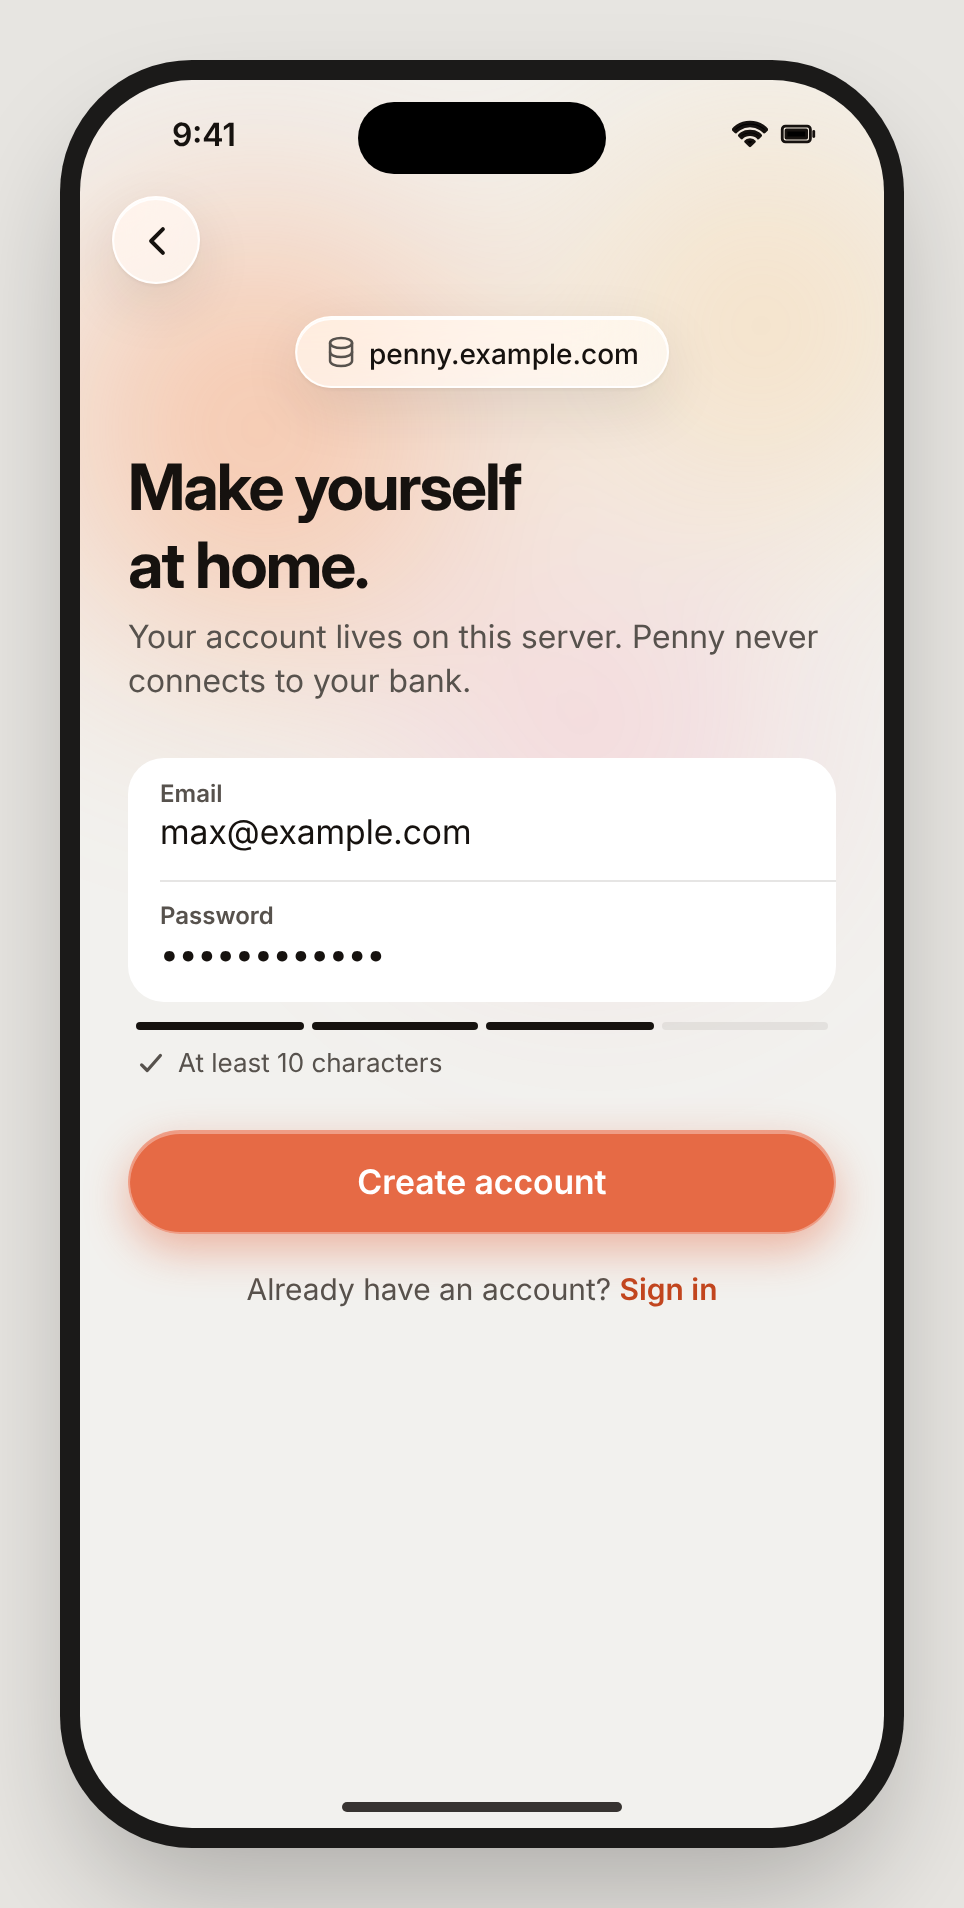
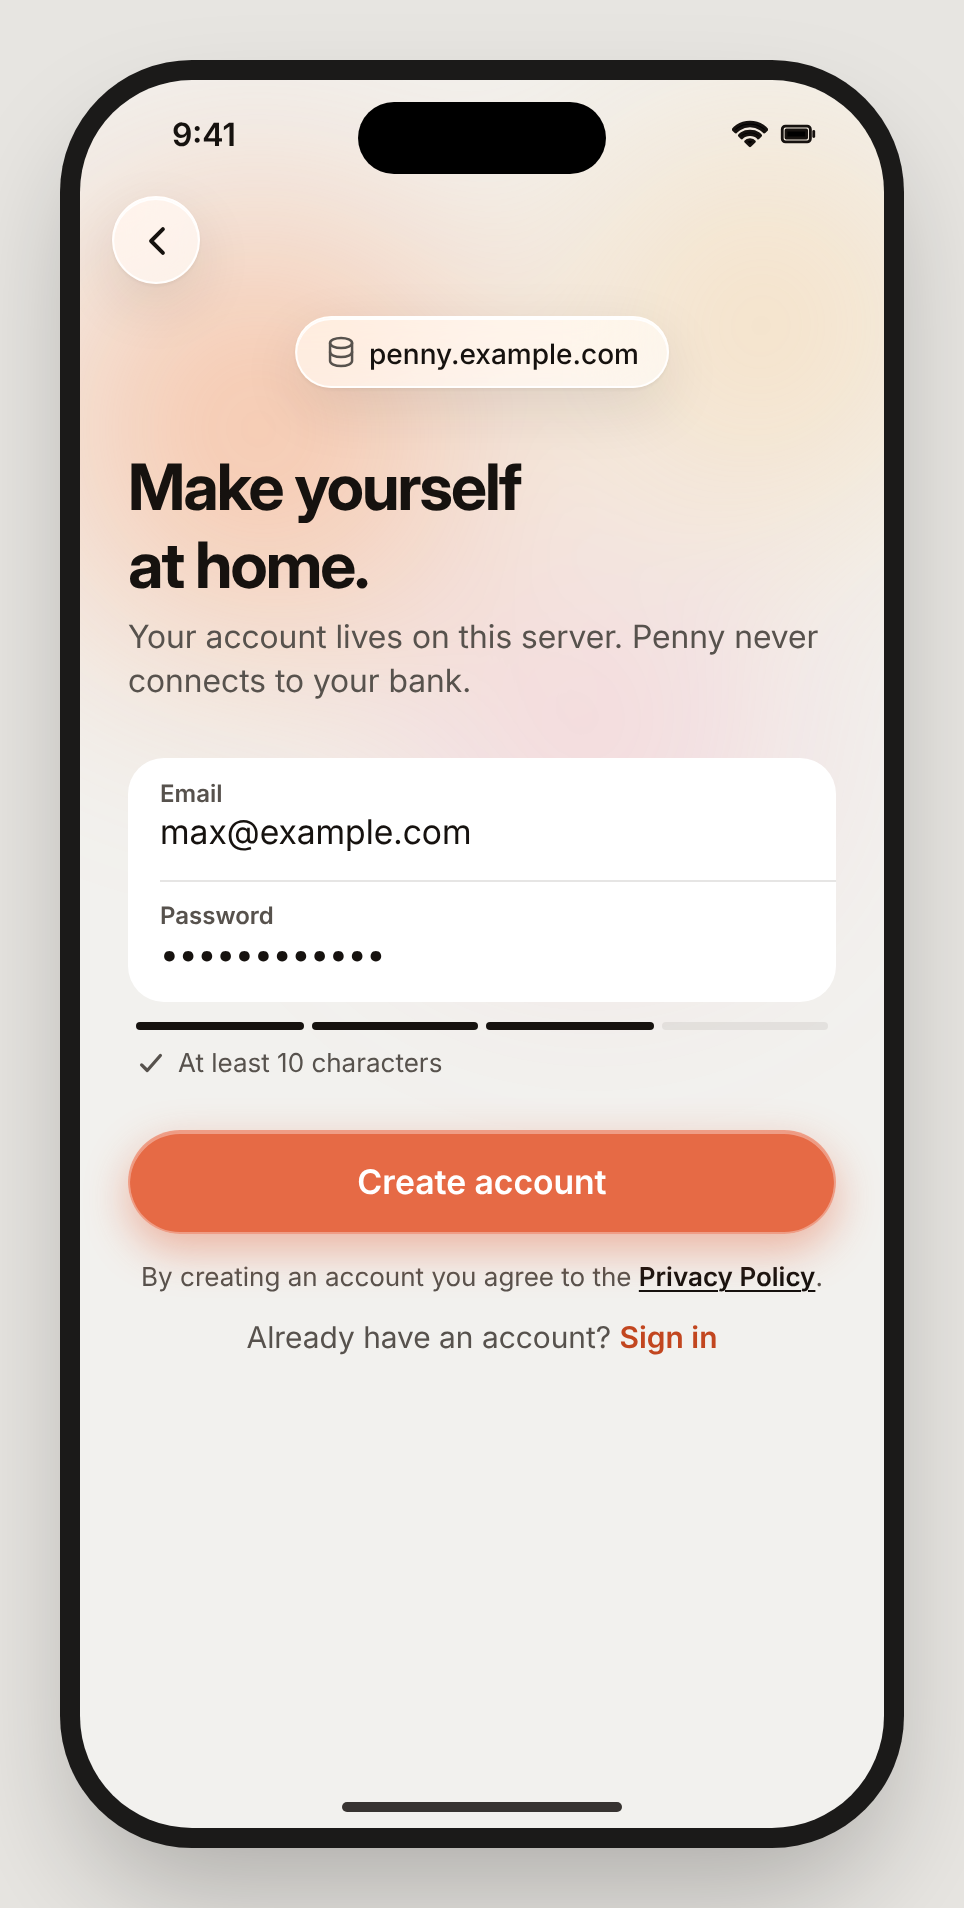
docs(design): show the privacy policy link on the sign-in cards
The owner decided that web-sign-in, iphone-sign-in and iphone-create-account
show the server's Privacy Policy where the providers cards draw it, and that
the picture crop's mouse wording is an approved web adaptation. The privacy
test's Settings > Profile case now serves the profile the new pane loads.

Changed region(s): [[0.1556, 0.6494, 0.8402, 0.7112]]

diff --git a/docs/design/penny-ios/iphone/sign-in.html b/docs/design/penny-ios/iphone/sign-in.html
@@ -25,9 +25,11 @@
   .or::before, .or::after { content: ""; flex: 1; border-top: .5px solid var(--separator); }
   .link { text-align: center; font-size: 15px; color: var(--label-2); margin-top: 18px; }
   .link b { color: var(--tint-text); font-weight: 600; }
-  .demo { position: absolute; bottom: 44px; left: 0; right: 0; text-align: center; font-size: 15px; font-weight: 600; color: var(--label); z-index: 1; display: flex; justify-content: center; }
+  .demo { position: absolute; bottom: 74px; left: 0; right: 0; text-align: center; font-size: 15px; font-weight: 600; color: var(--label); z-index: 1; display: flex; justify-content: center; }
   .demo span { display: inline-flex; align-items: center; gap: 6px; }
   .demo [data-i] { width: 18px; height: 18px; color: var(--tint); }
+  .legal { position: absolute; bottom: 40px; left: 40px; right: 40px; text-align: center; font-size: 13px; color: var(--label-2); line-height: 1.4; z-index: 1; }
+  .legal a { color: var(--label); font-weight: 600; text-decoration: underline; text-underline-offset: 2px; }
 </style></head>
 <body class="canvas">
 <div class="iphone">
@@ -50,6 +52,7 @@
       <p class="link">New here? <b>Create an account</b></p>
     </div>
     <div class="demo"><span><i data-i="play"></i>Take a look around with sample data</span></div>
+    <div class="legal"><a>Privacy Policy</a></div>
   </div>
   <div class="home-ind"></div>
 </div>

diff --git a/docs/design/penny-ios/web/sign-in.html b/docs/design/penny-ios/web/sign-in.html
@@ -27,6 +27,7 @@
   .demo span { display: inline-flex; align-items: center; gap: 6px; font-size: 15px; font-weight: 600; color: var(--label); }
   .demo [data-i] { width: 18px; height: 18px; color: var(--tint); }
   .demo p { font-size: 13px; color: var(--label-2); margin-top: 6px; }
+  .demo p a { color: var(--label); font-weight: 600; text-decoration: underline; text-underline-offset: 2px; }
 </style></head>
 <body class="canvas">
 <div class="browser" data-noside data-url="penny.example.com/sign-in">
@@ -54,7 +55,7 @@
           <div class="btn big" style="margin-top:0"><i data-i="key"></i>Continue with SSO</div>
           <div style="text-align:center;font-size:14px;color:var(--label-2);margin-top:20px">New here? <b style="color:var(--tint-text)">Create an account</b></div>
         </div>
-        <div class="demo"><span><i data-i="play"></i>Take a look around with sample data</span><p>Sample data in this tab only. Nothing is saved or sent to your server.</p></div>
+        <div class="demo"><span><i data-i="play"></i>Take a look around with sample data</span><p>Sample data in this tab only. Nothing is saved or sent to your server. · <a>Privacy Policy</a></p></div>
       </div>
     </div>
   </main>

diff --git a/apps/web/tests/privacy.test.tsx b/apps/web/tests/privacy.test.tsx
@@ -2,7 +2,7 @@ import { screen, within } from "@testing-library/react";
 import userEvent from "@testing-library/user-event";
 import { afterEach, describe, expect, it, vi } from "vitest";
 import { serverInfoSchema } from "../src/api/info";
-import { json, renderApp, stubServer } from "./render";
+import { ALEX, json, renderApp, stubServer } from "./render";
 
 const POLICY = "https://penny.example.com/privacy";
 
@@ -11,6 +11,10 @@ function server(privacyPolicyUrl: string | null | undefined, signedIn = false) {
   return stubServer((url) => {
     if (url === "/api/info") return json({ name: "penny", version: "2.0.0-test", ...(privacyPolicyUrl === undefined ? {} : { privacyPolicyUrl }) });
     if (url === "/api/auth/me" && !signedIn) return json({ error: "Please sign in to continue." }, 401);
+    // Settings › Profile loads the profile before it renders its sections and the footer.
+    if (url === "/api/profile" && signedIn) {
+      return json({ userId: "u".repeat(32), email: ALEX, nameEditable: true, avatarEditable: true, needsName: false, signIn: "password" });
+    }
     return undefined;
   });
 }

diff --git a/docs/design/penny-ios/iphone/create-account.html b/docs/design/penny-ios/iphone/create-account.html
@@ -31,6 +31,8 @@
   .meter { display: flex; gap: 4px; margin: 10px 4px 0; }
   .meter i { flex: 1; height: 4px; border-radius: 2px; background: var(--fill); }
   .meter i.on { background: var(--label); }
+  .terms { font-size: 13px; color: var(--label-2); text-align: center; margin-top: 12px; line-height: 1.4; }
+  .terms a { color: var(--label); font-weight: 600; text-decoration: underline; text-underline-offset: 2px; }
 </style></head>
 <body class="canvas">
 <div class="iphone">
@@ -50,7 +52,8 @@
       <div class="meter"><i class="on"></i><i class="on"></i><i class="on"></i><i></i></div>
       <p class="hint"><i data-i="checkmark" style="width:15px;height:15px;--sw:56px"></i>At least 10 characters</p>
       <div class="glass gcap tinted cta" style="margin-top:26px">Create account</div>
-      <p class="link">Already have an account? <b>Sign in</b></p>
+      <p class="terms">By creating an account you agree to the <a>Privacy Policy</a>.</p>
+      <p class="link" style="margin-top:12px">Already have an account? <b>Sign in</b></p>
     </div>
   </div>
   <div class="home-ind"></div>

diff --git a/docs/design/visual-acceptance.md b/docs/design/visual-acceptance.md
@@ -194,6 +194,7 @@ MAZ-216 captured every iOS card again against a fresh test environment (`apps/io
 - **MAZ-249 (2026-11-21).** `iphone-trips`, `iphone-trip-detail`, `iphone-trip-form` and `ipad-trip` were captured again on the iPhone 18 Pro and iPad Pro 11-inch (M5) simulators (iOS 27, iPad in landscape), light and dark. Trips has Join (key) and New trip (+) in the toolbar, short dates ("Nov 2–8", the year only when it isn't this one), Personal and Shared chips, your share on shared rows, and the featured trip over the trips' sky glow with no Trip expense or chevron. The trip page leads with the name (no inline title) over the same glow: on iPhone without the phase or currency, on iPad with the phase in capitals, a 40-point name, "shared with N people" and the two large totals; Your share by category has bars. The trip form matches: no name header, glyphs on Starts, Ends and Currency (locked), You with a monogram and a copper Invite with a code. The remaining differences are listed per card.
 - **MAZ-274 (2026-11-21).** `ipad-activity` was captured again on the web at 1194×834 with touch, light and dark. The pane always shows an entry: Activity selects the first listed one when it opens, and again when the selected one is deleted or filtered out, so the pane has no Close. Delete and Edit are neutral glass buttons over a copper glow, the tile sits beside the title, and Details and Split are panels with bold titles; Split ends its title with "Equally · 2 people" and lists Your share with a check and "1 other person" (or "N other people", "Other people" for a custom share) with their share. The list takes two fifths of the width, as on the card, and the selected row is tinted copper from edge to edge. What remains is the time in the subtitle, which entries don't store (MAZ-225).
 - **MAZ-264 (2026-11-22).** The owner decided to change three cards to the web's month control. `iphone-shared` and `iphone-shared-balances` put the month pill ("November ⌄") after Back in the navigation bar's glass row, as on Home; on Balances the household's name sits on its own small centered row under the bar. `ipad-shared` moves its toolbar over both panes, with previous, "November 2026 ⌄" and next on the left and History, Invite and + Expense on the right. The design kit's filled icon parts (create, pricetag, wallet, calendar, alert-circle, ellipsis-horizontal, finger-print and the kit's happy) now follow the text color instead of drawing black, so in dark the Edit pencil, the tag's hole, the wallet's clasp and the … menu show; every baseline was rendered again (on Linux). The `server` icon's stroked paths gained `fill:none` (owner decision), so the server chip and the Server rows draw an outlined database instead of a solid black shape on the cards and the web alike. The web's swatches on the category form are two rows of four with the ring alone on the selected color, and removing an account or category is the redrawn cards' solid group (Move them to with its choice, the centered Move and remove, grey until a destination is chosen) with the usage note under it. Every web card was captured again at 402×874, 1194×834 (with touch) and 1440×900, light and dark: the three household cards, `iphone-account-form` and `iphone-category-form` keep only their other recorded differences, and the native household verdicts now name the month pill (MAZ-256).
+- **MAZ-169 (2026-11-23).** The owner decided to change three cards to show the server's Privacy Policy where the providers cards draw it, and keep them as the no-providers state. `web-sign-in` adds " · Privacy Policy" after the sample-data note; `iphone-sign-in` puts a "Privacy Policy" line under the sample-data link, which moves up to make room; `iphone-create-account` adds "By creating an account you agree to the Privacy Policy." under Create account. Their baselines were rendered again in the Playwright image. The web side of the three was captured again at 402×874 and 1440×900, light and dark, and drops the link from its differences; the native side of `iphone-sign-in` and `iphone-create-account` records the missing link until the iOS part is built.
 - **iOS screens and states with no card.** The design doesn't draw these yet: the Activity filters sheet; the account, household and date pickers; Spending by category; the Currency page; Edit entry; a shared expense's detail; recording a monthly payment; Join with a code and the invite scanner; the invite sheet with its QR code; sharing a personal trip; a personal trip's page (only shared trips have cards); New schedule; the Explore your month list and Coming up on iPhone; the Expected income card; the notification prompt and the Notifications row; the "Shared expenses may be missing" and server-unreachable banners; the demo banner; Activity's "Searching your server…" state; and iPad in portrait and in compact widths.
 
 ## Drafted cards (MAZ-238, 2026-11-22)

diff --git a/docs/reference/redesign.md b/docs/reference/redesign.md
@@ -137,3 +137,4 @@ The owner approved these web patterns on 2026-11-19 ([MAZ-227](https://linear.ap
 - **Settings, Appearance, the demo note and the saved toast (MAZ-239, decided by the owner 2026-11-21 from the MAZ-231, MAZ-234 and MAZ-237 follow-ups).** Settings has no Face ID lock row, because the web has no app lock (`iphone-settings`, `ipad-settings`). Appearance has no Text size row, because text follows the browser's size and zoom (`iphone-appearance`, `ipad-settings`), and its theme footnote says "System follows your device's Light and Dark setting…" instead of "your iPhone's" or "your iPad's", because a browser can run on any device. For the same reason, the Reduce transparency row says "Your device's own setting also applies" instead of "Your iPhone's" or "Your iPad's" (`iphone-appearance`, `ipad-settings`; decided by the owner 2026-11-21 from the MAZ-239 follow-up). At phone width, sign-in keeps the note "Sample data in this tab only. Nothing is saved or sent to your server." under the demo link, which `iphone-sign-in` doesn't show, so people on the web know the demo saves nothing. At phone width, the saved toast takes the tab bar's place while it shows, instead of sitting above it as `iphone-saved-toast` draws it: since MAZ-166 a web toast never covers list rows or moves the page.
 - **Phone search keeps the tab bar (MAZ-273, decided by the owner 2026-11-20).** At phone width, Activity's bottom "Search activity" field sits above the tab bar instead of replacing it with a Back button, as `iphone-activity` and `iphone-search-empty` draw it on iOS: the web's phone shell keeps its tab bar on every tab, and hiding it on one tab would break navigation.
 - **Sign-out (MAZ-178).** The confirmation is a dialog over Settings. With changes waiting it has the card's title, warning and three choices (Sync, then sign out; Sign out anyway; Cancel); with none it is the plain confirmation. The web names the host it was opened from.
+- **Picture crop with a mouse (MAZ-171, decided by the owner 2026-11-23).** The "Move and scale" crop (`iphone-profile-photo`) says "Scroll to zoom, drag to move" when the pointer is a mouse, because a mouse can't pinch; touch screens show the card's "Pinch to zoom, drag to move". Keyboard users move with the arrow keys and zoom with + and −, as the crop area describes.

diff --git a/.design-sync/NOTES.md b/.design-sync/NOTES.md
@@ -36,6 +36,7 @@
 - **Settings in the demo sidebar (MAZ-283, owner decision):** `web/demo.html` keeps the Settings button at the end of the sidebar footer beside "Demo · Sample data", as on the account footer, because on the web it is the only way into Settings. No kit change. Push the card at the next re-sync.
 - **Overspent Home, the offline shared banner and iPad Add entry (MAZ-254, owner decisions):** the new `iphone/home-overspent.html` is Home with a negative Left to spend and "$283.35 more went out than came in" under it; `iphone/offline.html` adds the amber "Shared expenses may be missing" banner (the `shared-missing` card's styles) under the Offline banner; `ipad/activity.html` and `ipad/settings.html` add the copper "+ Add entry" capsule at the trailing end of their toolbar, as `ipad-home` has. No kit change. Push the four cards at the next re-sync.
 - **Shared trips in More details (MAZ-255, owner decision):** `iphone/entry-extras.html` lists a shared trip ("Tokyo spring", "Shared · 3 people") below the personal trips, as the apps do: picking one moves the expense to that trip's shared form. No kit change. Push the card at the next re-sync.
+- **Privacy Policy on the sign-in cards (MAZ-169, owner decision):** `web/sign-in.html` adds " · Privacy Policy" after the sample-data note; `iphone/sign-in.html` adds a `.legal` "Privacy Policy" line at the bottom and moves the sample-data link up (bottom 74px), as `iphone/sign-in-providers.html`; `iphone/create-account.html` adds the `.terms` line "By creating an account you agree to the Privacy Policy." under Create account, as `iphone/create-account-providers.html`. No kit change. Push the three cards at the next re-sync.
 
 ## Re-sync risks
 - **Do the whole re-sync in one change:** after a card or kit change, re-render the baselines (`node docs/design/penny-ios/render.mjs 2`), update the hashes in `contracts/design-baseline.json` (`npm run design:hashes` in `apps/web`), re-sync this project, and update the affected verdicts in `contracts/visual-comparisons.json`. The steps are in [visual acceptance](../docs/design/visual-acceptance.md#re-sync-after-a-design-change); `npm run test:core` and the web workflow fail on a stale baseline or hash.
